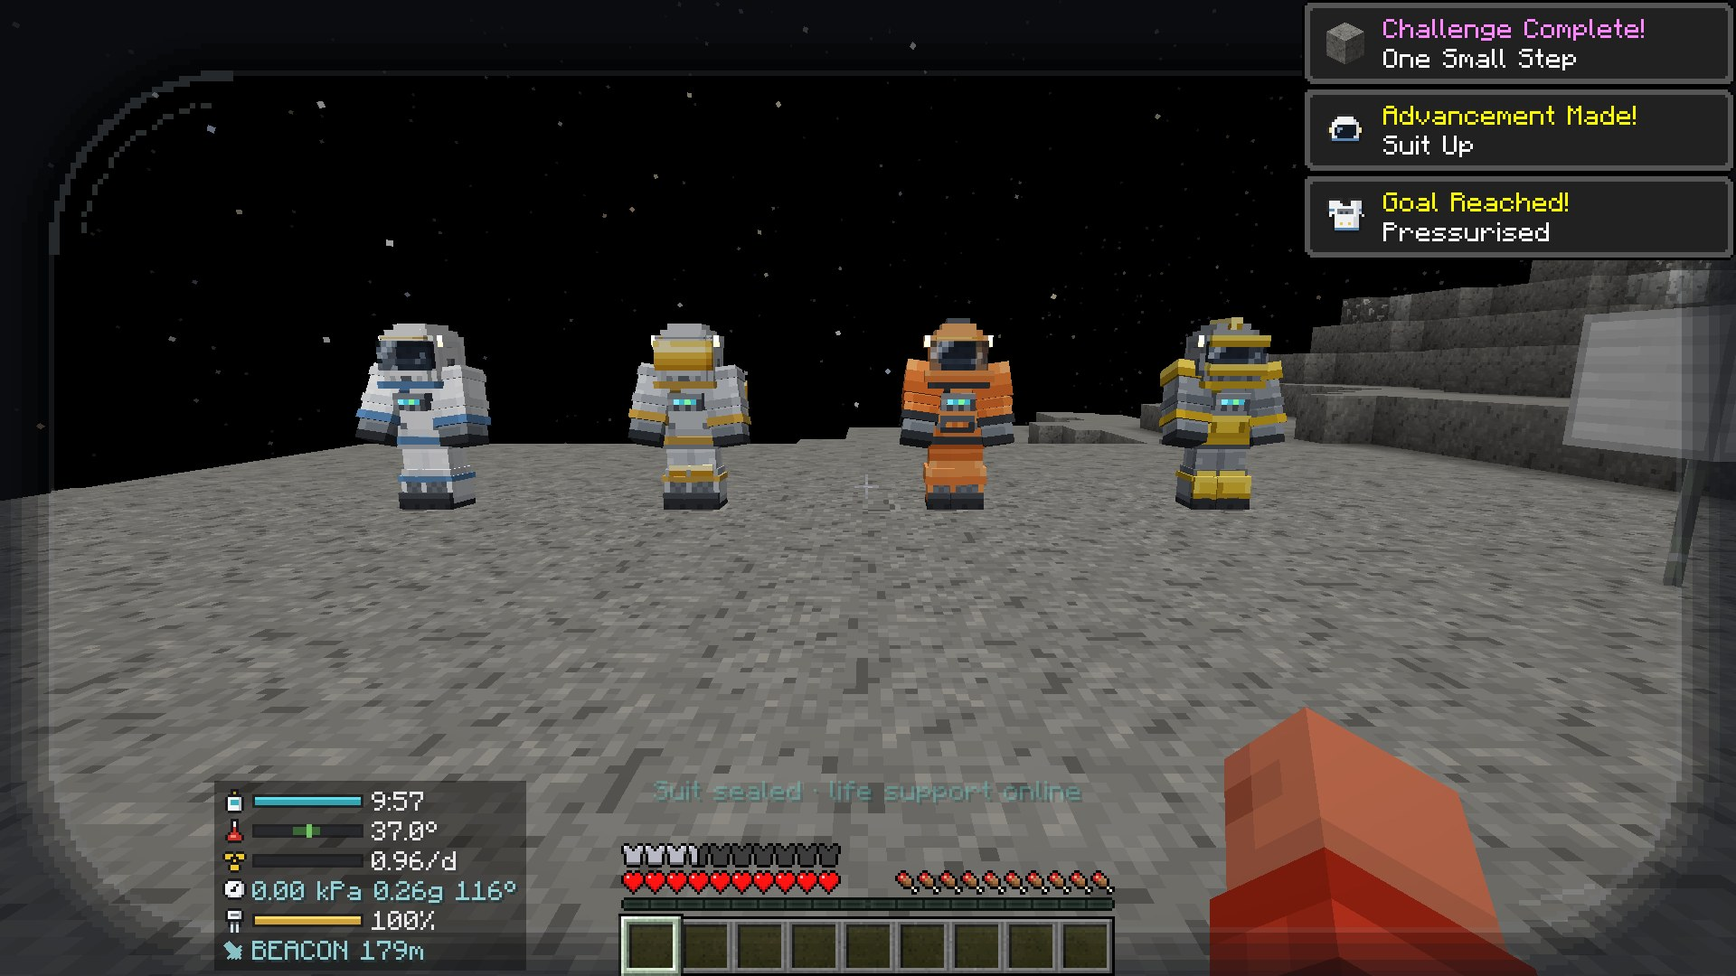
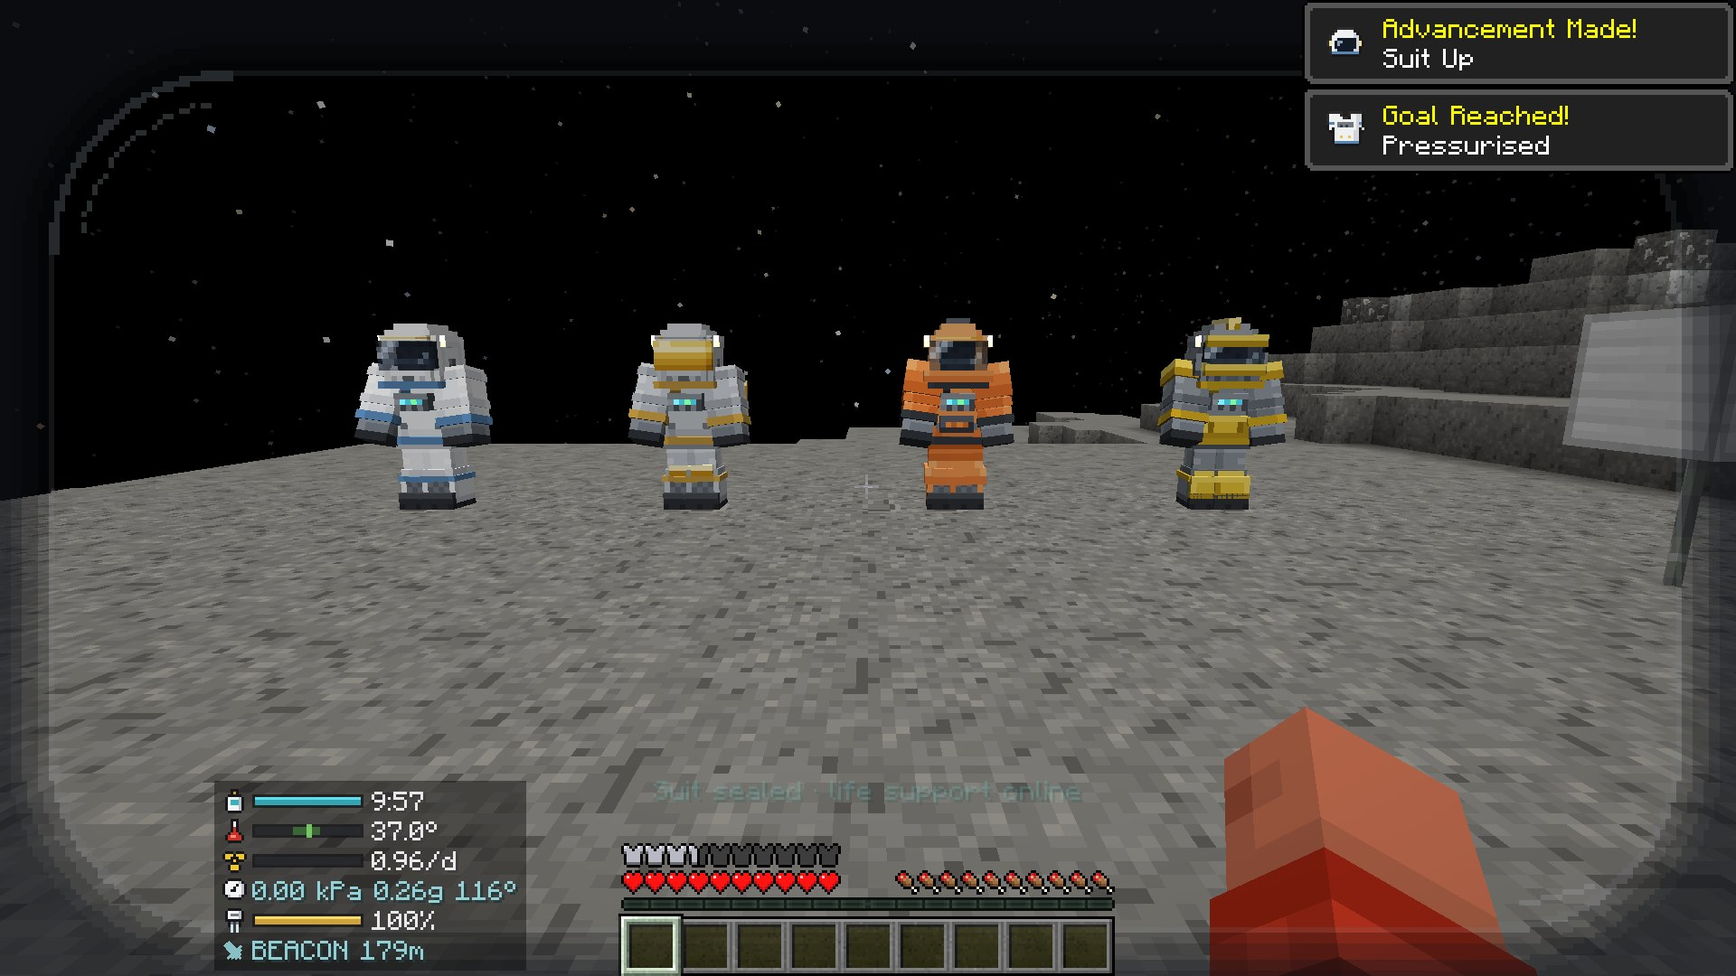
Suit HUD: yellow turn-back warning, clearer text; no toasts in suit showcases
The turn-back warning is drawn in caution yellow (#FFD24A); red stays for
critical warnings such as not having enough oxygen to get back. The English
text now reads TURN BACK: O2 RUNNING LOW FOR THE WAY HOME. All suit and
blueprint showcase shots clear the toast stack before shooting so
advancement toasts no longer cover the top right. Re-shot eva_moon_19/19b.

diff --git a/src/testmod/java/com/pizzaparker07/spacebreaker/testmod/showcase/SuitEvaScenario.java b/src/testmod/java/com/pizzaparker07/spacebreaker/testmod/showcase/SuitEvaScenario.java
@@ -199,33 +199,33 @@ final class SuitEvaScenario implements ShowcaseScenario {
         CameraType fp = CameraType.FIRST_PERSON;
         CameraType back = CameraType.THIRD_PERSON_BACK;
         CameraType front = CameraType.THIRD_PERSON_FRONT;
-        s.add(new Shot(prefix + "_01_tiers_day", 0, 0.0, g + 2.0, 7.0, 180F, 9F, true, fp, 200, at(false, null), null));
-        s.add(new Shot(prefix + "_02_close_mk1_thermal", 0, -3.0, g + 1.75, 3.0, 180F, 5F, true, fp, 40, at(false, null), null));
-        s.add(new Shot(prefix + "_03_close_heated_radiation", 0, 3.0, g + 1.75, 3.0, 180F, 5F, true, fp, 40, at(false, null), null));
-        s.add(new Shot(prefix + "_04_tiers_back", 0, 0.0, g + 2.0, -5.5, 0F, 9F, true, fp, 40, at(false, null), null));
-        s.add(new Shot(prefix + "_05_tiers_night", 0, 0.0, g + 2.0, 7.0, 180F, 9F, true, fp, 60, at(true, null), null));
-        s.add(new Shot(prefix + "_06_lamps_pool", 0, 0.5, g + 1.62, 9.5, 180F, 35F, true, fp, 60, at(true, SuitEvaScenario::astronaut), null));
-        s.add(new Shot(prefix + "_07_lamps_front", 0, 0.5, g + 1.62, 4.5, 0F, 5F, true, front, 40, at(true, SuitEvaScenario::astronaut), null));
-        s.add(new Shot(prefix + "_08_tether", 0, -2.5, g + 1.62, 3.5, 0F, 8F, true, front, 60, at(false, this::tethered), null));
-        s.add(new Shot(prefix + "_09_mmu", 0, -1.5, g + 4.0, 8.0, 150F, 10F, true, back, 40, at(false, SuitEvaScenario::thrusting), null));
-        s.add(new Shot(prefix + "_10_hud", 0, 1.5, g + 1.62, 9.5, 220F, 12F, false, fp, 40, at(false, this::tethered), null));
+        s.add(new Shot(prefix + "_01_tiers_day", 0, 0.0, g + 2.0, 7.0, 180F, 9F, true, fp, 200, at(false, null), SuitShots.CLEAR_TOASTS));
+        s.add(new Shot(prefix + "_02_close_mk1_thermal", 0, -3.0, g + 1.75, 3.0, 180F, 5F, true, fp, 40, at(false, null), SuitShots.CLEAR_TOASTS));
+        s.add(new Shot(prefix + "_03_close_heated_radiation", 0, 3.0, g + 1.75, 3.0, 180F, 5F, true, fp, 40, at(false, null), SuitShots.CLEAR_TOASTS));
+        s.add(new Shot(prefix + "_04_tiers_back", 0, 0.0, g + 2.0, -5.5, 0F, 9F, true, fp, 40, at(false, null), SuitShots.CLEAR_TOASTS));
+        s.add(new Shot(prefix + "_05_tiers_night", 0, 0.0, g + 2.0, 7.0, 180F, 9F, true, fp, 60, at(true, null), SuitShots.CLEAR_TOASTS));
+        s.add(new Shot(prefix + "_06_lamps_pool", 0, 0.5, g + 1.62, 9.5, 180F, 35F, true, fp, 60, at(true, SuitEvaScenario::astronaut), SuitShots.CLEAR_TOASTS));
+        s.add(new Shot(prefix + "_07_lamps_front", 0, 0.5, g + 1.62, 4.5, 0F, 5F, true, front, 40, at(true, SuitEvaScenario::astronaut), SuitShots.CLEAR_TOASTS));
+        s.add(new Shot(prefix + "_08_tether", 0, -2.5, g + 1.62, 3.5, 0F, 8F, true, front, 60, at(false, this::tethered), SuitShots.CLEAR_TOASTS));
+        s.add(new Shot(prefix + "_09_mmu", 0, -1.5, g + 4.0, 8.0, 150F, 10F, true, back, 40, at(false, SuitEvaScenario::thrusting), SuitShots.CLEAR_TOASTS));
+        s.add(new Shot(prefix + "_10_hud", 0, 1.5, g + 1.62, 9.5, 220F, 12F, false, fp, 40, at(false, this::tethered), SuitShots.CLEAR_TOASTS));
         // lamp glow cones from the side (they point the way the helmets face, +z), close to the Mk1 stand
-        s.add(new Shot(prefix + "_11_lamp_cones", 0, -6.8, g + 1.85, 1.6, -100F, 6F, true, fp, 60, at(true, null), null));
+        s.add(new Shot(prefix + "_11_lamp_cones", 0, -6.8, g + 1.85, 1.6, -100F, 6F, true, fp, 60, at(true, null), SuitShots.CLEAR_TOASTS));
         // first person in the cold beyond the suit's rating (Titan's dense air with a Mk1 suit): rime on the visor
-        s.add(new Shot(prefix + "_12_visor_frost", 0, 0.5, g + 1.62, 8.0, 180F, 8F, false, fp, 260, at(false, SuitEvaScenario::astronaut), null));
+        s.add(new Shot(prefix + "_12_visor_frost", 0, 0.5, g + 1.62, 8.0, 180F, 8F, false, fp, 260, at(false, SuitEvaScenario::astronaut), SuitShots.CLEAR_TOASTS));
         // the same view as shot 06 with the lamps on long beam: a narrow pool far ahead
         s.add(new Shot(prefix + "_13_long_beam", 0, 0.5, g + 1.62, 9.5, 180F, 12F, true, fp, 60, at(true, p -> {
             astronaut(p);
             p.getItemBySlot(EquipmentSlot.HEAD).set(SuitModule.LONG_BEAM.get(), true);
-        }), null));
-        s.add(new Shot(prefix + "_14_wide_beam", 0, 0.5, g + 1.62, 9.5, 180F, 12F, true, fp, 60, at(true, SuitEvaScenario::astronaut), null));
-        s.add(new Shot(prefix + "_15_suit_station", 0, -6.0, g + 1.9, 7.0, 160F, 22F, true, fp, 40, at(false, null), null));
+        }), SuitShots.CLEAR_TOASTS));
+        s.add(new Shot(prefix + "_14_wide_beam", 0, 0.5, g + 1.62, 9.5, 180F, 12F, true, fp, 60, at(true, SuitEvaScenario::astronaut), SuitShots.CLEAR_TOASTS));
+        s.add(new Shot(prefix + "_15_suit_station", 0, -6.0, g + 1.9, 7.0, 160F, 22F, true, fp, 40, at(false, null), SuitShots.CLEAR_TOASTS));
         s.add(new Shot(prefix + "_16_sensor", 0, 0.5, g + 1.62, 8.5, 180F, 10F, false, fp, 60, at(false, p -> {
             astronaut(p);
             p.setItemSlot(EquipmentSlot.MAINHAND, new ItemStack(SuitModule.ENVIRONMENT_SENSOR.get()));
             net.neoforged.neoforge.network.PacketDistributor.sendToPlayer(p,
                     com.pizzaparker07.spacebreaker.content.suit.EnvironmentSensorItem.read(p.serverLevel(), p.blockPosition()));
-        }), null));
+        }), SuitShots.CLEAR_TOASTS));
         // the prospecting kit in the hotbar, the charged drill in hand
         s.add(new Shot(prefix + "_17_tools", 0, 0.5, g + 1.62, 8.5, 180F, 25F, false, fp, 60, at(false, p -> {
             astronaut(p);
@@ -238,7 +238,7 @@ final class SuitEvaScenario implements ShowcaseScenario {
                 p.getInventory().setItem(slot++, new ItemStack(tool.get()));
             }
             p.getInventory().selected = 0;
-        }), null));
+        }), SuitShots.CLEAR_TOASTS));
         // the wide-bore drill has dug a 3 x 3 pit (and one more square beside it) in front of the player
         s.add(new Shot(prefix + "_18_wide_bore", 0, 0.5, g + 1.62, 9.0, 180F, 40F, false, fp, 60, at(false, p -> {
             astronaut(p);
@@ -252,18 +252,18 @@ final class SuitEvaScenario implements ShowcaseScenario {
                 com.pizzaparker07.spacebreaker.content.suit.ElectricDrillItem.breakAround(p, centre,
                         net.minecraft.world.level.block.Blocks.STONE.defaultBlockState(), net.minecraft.core.Direction.UP);
             }
-        }), null));
+        }), SuitShots.CLEAR_TOASTS));
         // way home: the player's own landing beacon a long walk away (behind and to the right); then low on oxygen
         s.add(new Shot(prefix + "_19_way_home", 0, 0.5, g + 1.62, 8.5, 180F, 10F, false, fp, 60,
-                at(false, p -> beaconBehind(p, g, 0)), null));
+                at(false, p -> beaconBehind(p, g, 0)), SuitShots.CLEAR_TOASTS));
         s.add(new Shot(prefix + "_19b_turn_back", 0, 0.5, g + 1.62, 8.5, 180F, 10F, false, fp, 60,
-                at(false, p -> beaconBehind(p, g, 1)), null));
+                at(false, p -> beaconBehind(p, g, 1)), SuitShots.CLEAR_TOASTS));
         if (comet) {
             s.add(new Shot(prefix + "_20_tethered_eva", 0, -2.5, g + 1.62, 3.5, 0F, 8F, true, CameraType.THIRD_PERSON_FRONT, 80,
-                    at(false, this::tethered), null));
-            s.add(new Shot(prefix + "_21_micro_g_hud", 0, 0.5, g + 1.62, 8.5, 180F, 12F, false, fp, 60, at(false, SuitEvaScenario::freshArrival), null));
-            s.add(new Shot(prefix + "_22_heated_night_hud", 0, 0.5, g + 1.62, 8.5, 180F, 12F, false, fp, 260, at(true, SuitEvaScenario::heated), null));
-            s.add(new Shot(prefix + "_23_mk1_night_frost", 0, 0.5, g + 1.62, 8.5, 180F, 12F, false, fp, 260, at(true, SuitEvaScenario::astronaut), null));
+                    at(false, this::tethered), SuitShots.CLEAR_TOASTS));
+            s.add(new Shot(prefix + "_21_micro_g_hud", 0, 0.5, g + 1.62, 8.5, 180F, 12F, false, fp, 60, at(false, SuitEvaScenario::freshArrival), SuitShots.CLEAR_TOASTS));
+            s.add(new Shot(prefix + "_22_heated_night_hud", 0, 0.5, g + 1.62, 8.5, 180F, 12F, false, fp, 260, at(true, SuitEvaScenario::heated), SuitShots.CLEAR_TOASTS));
+            s.add(new Shot(prefix + "_23_mk1_night_frost", 0, 0.5, g + 1.62, 8.5, 180F, 12F, false, fp, 260, at(true, SuitEvaScenario::astronaut), SuitShots.CLEAR_TOASTS));
         }
         return s;
     }

diff --git a/src/testmod/java/com/pizzaparker07/spacebreaker/testmod/showcase/SuitScenario.java b/src/testmod/java/com/pizzaparker07/spacebreaker/testmod/showcase/SuitScenario.java
@@ -147,23 +147,23 @@ final class SuitScenario implements ShowcaseScenario {
     public List<Shot> shots() {
         List<Shot> s = new ArrayList<>();
         CameraType fp = CameraType.FIRST_PERSON;
-        s.add(new Shot("suit_01_lineup", 5000, 0.5, G + 2.0, 7.0, 180F, 8F, true, fp, 140, null, null));
-        s.add(new Shot("suit_02_front_close", 5000, -4.5, G + 1.5, 2.6, 180F, 4F, true, fp, 40, null, null));
-        s.add(new Shot("suit_03_helmet_macro", 5000, -4.4, G + 1.75, 1.75, 175F, 8F, true, fp, 40, null, null));
-        s.add(new Shot("suit_04_three_quarter", 5000, -1.4, G + 1.5, 2.9, 190F, 6F, true, fp, 40, null, null));
-        s.add(new Shot("suit_05_back_plss", 5000, 3.0, G + 1.6, 2.7, 180F, 8F, true, fp, 40, null, null));
-        s.add(new Shot("suit_06_gold_visor_mmu", 5000, 5.0, G + 1.6, 2.6, 170F, 6F, true, fp, 40, null, null));
-        s.add(new Shot("suit_07_night_lamps", 17800, 0.5, G + 1.8, 5.0, 180F, 6F, true, fp, 80, null, null));
+        s.add(new Shot("suit_01_lineup", 5000, 0.5, G + 2.0, 7.0, 180F, 8F, true, fp, 140, null, SuitShots.CLEAR_TOASTS));
+        s.add(new Shot("suit_02_front_close", 5000, -4.5, G + 1.5, 2.6, 180F, 4F, true, fp, 40, null, SuitShots.CLEAR_TOASTS));
+        s.add(new Shot("suit_03_helmet_macro", 5000, -4.4, G + 1.75, 1.75, 175F, 8F, true, fp, 40, null, SuitShots.CLEAR_TOASTS));
+        s.add(new Shot("suit_04_three_quarter", 5000, -1.4, G + 1.5, 2.9, 190F, 6F, true, fp, 40, null, SuitShots.CLEAR_TOASTS));
+        s.add(new Shot("suit_05_back_plss", 5000, 3.0, G + 1.6, 2.7, 180F, 8F, true, fp, 40, null, SuitShots.CLEAR_TOASTS));
+        s.add(new Shot("suit_06_gold_visor_mmu", 5000, 5.0, G + 1.6, 2.6, 170F, 6F, true, fp, 40, null, SuitShots.CLEAR_TOASTS));
+        s.add(new Shot("suit_07_night_lamps", 17800, 0.5, G + 1.8, 5.0, 180F, 6F, true, fp, 80, null, SuitShots.CLEAR_TOASTS));
         s.add(new Shot("suit_08_player", 5200, 0.5, G + 1.62, 6.0, 0F, 0F, true, CameraType.THIRD_PERSON_FRONT, 40,
-                SuitScenario::suitUp, null));
+                SuitScenario::suitUp, SuitShots.CLEAR_TOASTS));
         s.add(new Shot("suit_09_player_back", 5200, 0.5, G + 1.62, 6.0, 0F, 0F, true, CameraType.THIRD_PERSON_BACK, 40,
-                SuitScenario::suitUp, null));
-        s.add(new Shot("suit_11_habitat", 6000, 11.0, G + 2.6, 15.5, 175F, 14F, true, fp, 80, null, null));
-        s.add(new Shot("suit_12_machines_close", 6000, 9.2, G + 1.8, 14.6, 170F, 30F, true, fp, 40, null, null));
-        s.add(new Shot("suit_13_airlock_open", 6000, 16.2, G + 2.0, 8.5, 90F, 10F, true, fp, 60, null, null));
+                SuitScenario::suitUp, SuitShots.CLEAR_TOASTS));
+        s.add(new Shot("suit_11_habitat", 6000, 11.0, G + 2.6, 15.5, 175F, 14F, true, fp, 80, null, SuitShots.CLEAR_TOASTS));
+        s.add(new Shot("suit_12_machines_close", 6000, 9.2, G + 1.8, 14.6, 170F, 30F, true, fp, 40, null, SuitShots.CLEAR_TOASTS));
+        s.add(new Shot("suit_13_airlock_open", 6000, 16.2, G + 2.0, 8.5, 90F, 10F, true, fp, 60, null, SuitShots.CLEAR_TOASTS));
         s.add(new Shot("suit_14_inventory", 6000, 0.5, G + 1.62, 7.0, 180F, 5F, false, fp, 30, SuitScenario::fillHotbar,
-                ShowcaseDriver::openCreativeTab));
-        s.add(new Shot("suit_10_hud", 6000, 0.5, G + 1.62, 7.0, 180F, 5F, false, fp, 60, SuitScenario::suitUp, null));
+                SuitShots.clearToastsThen(ShowcaseDriver::openCreativeTab)));
+        s.add(new Shot("suit_10_hud", 6000, 0.5, G + 1.62, 7.0, 180F, 5F, false, fp, 60, SuitScenario::suitUp, SuitShots.CLEAR_TOASTS));
         return s;
     }
 

diff --git a/src/testmod/java/com/pizzaparker07/spacebreaker/testmod/showcase/BlueprintScenario.java b/src/testmod/java/com/pizzaparker07/spacebreaker/testmod/showcase/BlueprintScenario.java
@@ -80,13 +80,13 @@ final class BlueprintScenario implements ShowcaseScenario {
     public List<Shot> shots() {
         List<Shot> s = new ArrayList<>();
         CameraType fp = CameraType.FIRST_PERSON;
-        s.add(new Shot("blueprint_01_launch_site", 6000, 0.5, G + 4.5, 9.5, 180F, 22F, false, fp, 160, projecting("launch_site", LAUNCH, -1), null));
-        s.add(new Shot("blueprint_02_close", 6000, -3.5, G + 3.0, 5.5, 215F, 18F, false, fp, 60, projecting("launch_site", LAUNCH, -1), null));
-        s.add(new Shot("blueprint_03_layer_mode", 6000, 0.5, G + 4.5, 9.5, 180F, 22F, false, fp, 60, projecting("launch_site", LAUNCH, 4), null));
-        s.add(new Shot("blueprint_04_habitat", 6000, 10.5, G + 3.5, 7.5, 180F, 20F, false, fp, 60, projecting("pressurised_habitat", HABITAT, -1), null));
-        s.add(new Shot("blueprint_05_hidden_gui", 6000, -3.5, G + 3.0, 5.5, 215F, 18F, true, fp, 40, projecting("launch_site", LAUNCH, -1), null));
+        s.add(new Shot("blueprint_01_launch_site", 6000, 0.5, G + 4.5, 9.5, 180F, 22F, false, fp, 160, projecting("launch_site", LAUNCH, -1), SuitShots.CLEAR_TOASTS));
+        s.add(new Shot("blueprint_02_close", 6000, -3.5, G + 3.0, 5.5, 215F, 18F, false, fp, 60, projecting("launch_site", LAUNCH, -1), SuitShots.CLEAR_TOASTS));
+        s.add(new Shot("blueprint_03_layer_mode", 6000, 0.5, G + 4.5, 9.5, 180F, 22F, false, fp, 60, projecting("launch_site", LAUNCH, 4), SuitShots.CLEAR_TOASTS));
+        s.add(new Shot("blueprint_04_habitat", 6000, 10.5, G + 3.5, 7.5, 180F, 20F, false, fp, 60, projecting("pressurised_habitat", HABITAT, -1), SuitShots.CLEAR_TOASTS));
+        s.add(new Shot("blueprint_05_hidden_gui", 6000, -3.5, G + 3.0, 5.5, 215F, 18F, true, fp, 40, projecting("launch_site", LAUNCH, -1), SuitShots.CLEAR_TOASTS));
         s.add(new Shot("blueprint_06_select", 6000, 0.5, G + 4.5, 9.5, 180F, 22F, false, fp, 30, projecting("launch_site", LAUNCH, -1),
-                () -> Minecraft.getInstance().setScreen(new BlueprintScreen())));
+                SuitShots.clearToastsThen(() -> Minecraft.getInstance().setScreen(new BlueprintScreen()))));
         return s;
     }
 }

diff --git a/src/testmod/java/com/pizzaparker07/spacebreaker/testmod/showcase/SuitTiersScenario.java b/src/testmod/java/com/pizzaparker07/spacebreaker/testmod/showcase/SuitTiersScenario.java
@@ -84,13 +84,13 @@ final class SuitTiersScenario implements ShowcaseScenario {
     public List<Shot> shots() {
         List<Shot> s = new ArrayList<>();
         CameraType fp = CameraType.FIRST_PERSON;
-        s.add(new Shot("tiers_01_front", 5000, 0.0, G + 2.2, 6.5, 180F, 10F, true, fp, 140, null, null));
-        s.add(new Shot("tiers_02_back", 5000, 0.0, G + 2.2, -10.0, 0F, 10F, true, fp, 60, null, null));
-        s.add(new Shot("tiers_03_thermal_heated", 5000, 0.0, G + 1.7, 3.6, 180F, 6F, true, fp, 40, null, null));
-        s.add(new Shot("tiers_04_radiation_close", 5000, 3.0, G + 1.7, 2.9, 180F, 6F, true, fp, 40, null, null));
-        s.add(new Shot("tiers_05_three_quarter", 5000, 5.5, G + 2.0, 4.5, 140F, 12F, true, fp, 40, null, null));
-        s.add(new Shot("tiers_06_dyed", 5000, -6.0, G + 1.8, 8.5, 185F, 8F, true, fp, 40, null, null));
-        s.add(new Shot("tiers_07_inventory", 5000, 0.0, G + 1.62, 7.0, 180F, 5F, false, fp, 30, null, ShowcaseDriver::openCreativeTab));
+        s.add(new Shot("tiers_01_front", 5000, 0.0, G + 2.2, 6.5, 180F, 10F, true, fp, 140, null, SuitShots.CLEAR_TOASTS));
+        s.add(new Shot("tiers_02_back", 5000, 0.0, G + 2.2, -10.0, 0F, 10F, true, fp, 60, null, SuitShots.CLEAR_TOASTS));
+        s.add(new Shot("tiers_03_thermal_heated", 5000, 0.0, G + 1.7, 3.6, 180F, 6F, true, fp, 40, null, SuitShots.CLEAR_TOASTS));
+        s.add(new Shot("tiers_04_radiation_close", 5000, 3.0, G + 1.7, 2.9, 180F, 6F, true, fp, 40, null, SuitShots.CLEAR_TOASTS));
+        s.add(new Shot("tiers_05_three_quarter", 5000, 5.5, G + 2.0, 4.5, 140F, 12F, true, fp, 40, null, SuitShots.CLEAR_TOASTS));
+        s.add(new Shot("tiers_06_dyed", 5000, -6.0, G + 1.8, 8.5, 185F, 8F, true, fp, 40, null, SuitShots.CLEAR_TOASTS));
+        s.add(new Shot("tiers_07_inventory", 5000, 0.0, G + 1.62, 7.0, 180F, 5F, false, fp, 30, null, SuitShots.clearToastsThen(ShowcaseDriver::openCreativeTab)));
         return s;
     }
 }

diff --git a/src/main/java/com/pizzaparker07/spacebreaker/client/hud/HelmetHud.java b/src/main/java/com/pizzaparker07/spacebreaker/client/hud/HelmetHud.java
@@ -39,6 +39,8 @@ public final class HelmetHud {
     private static final int TEXT = 0x9FE3EA;
     private static final int WARN = 0xFFB040;
     private static final int ALARM = 0xFF5A4A;
+    /** Caution yellow: the warning that still leaves time to act (turn back now). */
+    private static final int CAUTION = 0xFFD24A;
 
     private HelmetHud() {
     }
@@ -267,6 +269,7 @@ public final class HelmetHud {
 
         // warnings: centred above the hotbar, like vanilla's action bar
         Component warning = null;
+        int warningColor = ALARM;
         if (!breathable && !sealed) {
             warning = Component.translatable("hud.spacebreaker.warn.unsealed");
         } else if (!breathable && s.oxygen() == 0) {
@@ -275,6 +278,7 @@ public final class HelmetHud {
             warning = Component.translatable("hud.spacebreaker.warn.cant_make_it");
         } else if (!breathable && navStatus == com.pizzaparker07.spacebreaker.content.suit.Navigation.Status.TURN_BACK) {
             warning = Component.translatable("hud.spacebreaker.warn.turn_back");
+            warningColor = CAUTION;
         } else if (!breathable && o2 < 0.15F) {
             warning = Component.translatable("hud.spacebreaker.warn.low_oxygen");
         } else if (beyond) {
@@ -297,7 +301,7 @@ public final class HelmetHud {
             int ww = font.width(warning);
             int wx = (g.guiWidth() - ww) / 2;
             int wy = g.guiHeight() - 59 - (player.isCreative() ? 0 : 10);
-            g.drawString(font, warning, wx, wy, argb(ALARM, alpha), true);
+            g.drawString(font, warning, wx, wy, argb(warningColor, alpha), true);
         }
     }
 

diff --git a/src/testmod/java/com/pizzaparker07/spacebreaker/testmod/showcase/SuitMoonScenario.java b/src/testmod/java/com/pizzaparker07/spacebreaker/testmod/showcase/SuitMoonScenario.java
@@ -109,12 +109,12 @@ final class SuitMoonScenario implements ShowcaseScenario {
         double gy = ground(0.5, 0.5);
         List<Shot> s = new ArrayList<>();
         CameraType fp = CameraType.FIRST_PERSON;
-        s.add(new Shot("suit_moon_01_day", 0, 0.0, gy + 1.9, 6.0, 180F, 8F, true, fp, 200, at(0.2, null), null));
-        s.add(new Shot("suit_moon_02_night_lamps", 0, 0.0, gy + 1.9, 5.0, 180F, 8F, true, fp, 80, at(0.75, null), null));
-        s.add(new Shot("suit_moon_03_hud_vacuum", 0, 0.5, gy + 1.62, 6.5, 180F, 6F, false, fp, 60, at(0.2, SuitMoonScenario::suited), null));
-        s.add(new Shot("suit_moon_04_hud_warning", 0, 0.5, gy + 1.62, 6.5, 180F, 6F, false, fp, 60, at(0.2, SuitMoonScenario::incomplete), null));
+        s.add(new Shot("suit_moon_01_day", 0, 0.0, gy + 1.9, 6.0, 180F, 8F, true, fp, 200, at(0.2, null), SuitShots.CLEAR_TOASTS));
+        s.add(new Shot("suit_moon_02_night_lamps", 0, 0.0, gy + 1.9, 5.0, 180F, 8F, true, fp, 80, at(0.75, null), SuitShots.CLEAR_TOASTS));
+        s.add(new Shot("suit_moon_03_hud_vacuum", 0, 0.5, gy + 1.62, 6.5, 180F, 6F, false, fp, 60, at(0.2, SuitMoonScenario::suited), SuitShots.CLEAR_TOASTS));
+        s.add(new Shot("suit_moon_04_hud_warning", 0, 0.5, gy + 1.62, 6.5, 180F, 6F, false, fp, 60, at(0.2, SuitMoonScenario::incomplete), SuitShots.CLEAR_TOASTS));
         s.add(new Shot("suit_moon_05_player", 0, 0.5, gy + 1.62, 6.5, 180F, 0F, true, CameraType.THIRD_PERSON_FRONT, 60,
-                at(0.2, SuitMoonScenario::suited), null));
+                at(0.2, SuitMoonScenario::suited), SuitShots.CLEAR_TOASTS));
         return s;
     }
 }

diff --git a/src/testmod/java/com/pizzaparker07/spacebreaker/testmod/showcase/SuitCapsuleScenario.java b/src/testmod/java/com/pizzaparker07/spacebreaker/testmod/showcase/SuitCapsuleScenario.java
@@ -49,10 +49,10 @@ final class SuitCapsuleScenario implements ShowcaseScenario {
         return List.of(
                 // the first boarding shows the rocket's chase camera; the cockpit view follows on the next shots
                 new Shot("capsule_00_boarding", 6000, 0.5, RocketEntity.ORBIT_Y + 1, 0.5, 30F, 20F, true, fp, 120,
-                        p -> seated(p, false), null),
+                        p -> seated(p, false), SuitShots.CLEAR_TOASTS),
                 new Shot("capsule_01_helmet_off", 6000, 0.5, RocketEntity.ORBIT_Y + 1, 0.5, 30F, 20F, false, fp, 120,
-                        p -> seated(p, false), null),
+                        p -> seated(p, false), SuitShots.CLEAR_TOASTS),
                 new Shot("capsule_02_hud_pressurised", 6000, 0.5, RocketEntity.ORBIT_Y + 1, 0.5, 30F, 20F, false, fp, 160,
-                        p -> seated(p, true), null));
+                        p -> seated(p, true), SuitShots.CLEAR_TOASTS));
     }
 }

diff --git a/src/main/java/com/pizzaparker07/spacebreaker/content/suit/SuitModule.java b/src/main/java/com/pizzaparker07/spacebreaker/content/suit/SuitModule.java
@@ -349,7 +349,7 @@ public final class SuitModule implements SbModule {
         lang.add("hud.spacebreaker.nav.rocket", "ROCKET", "ROKET");
         lang.add("hud.spacebreaker.nav.beacon", "BEACON", "İŞARET");
         lang.add("hud.spacebreaker.nav.base", "BASE", "ÜS");
-        lang.add("hud.spacebreaker.warn.turn_back", "TURN BACK: O2 FOR THE WAY HOME", "DÖN: DÖNÜŞ İÇİN O2 AZALIYOR");
+        lang.add("hud.spacebreaker.warn.turn_back", "TURN BACK: O2 RUNNING LOW FOR THE WAY HOME", "DÖN: DÖNÜŞ İÇİN O2 AZALIYOR");
         lang.add("hud.spacebreaker.warn.cant_make_it", "NOT ENOUGH O2 TO GET BACK", "GERİ DÖNMEYE O2 YETMİYOR");
         lang.add("sensor.spacebreaker.title", "Environment reading", "Çevre ölçümü");
         lang.add("sensor.spacebreaker.title_at", "Environment reading: %s", "Çevre ölçümü: %s");

diff --git a/src/testmod/java/com/pizzaparker07/spacebreaker/testmod/showcase/SuitShots.java b/src/testmod/java/com/pizzaparker07/spacebreaker/testmod/showcase/SuitShots.java
@@ -1,0 +1,20 @@
+package com.pizzaparker07.spacebreaker.testmod.showcase;
+
+import net.minecraft.client.Minecraft;
+
+/** Shared bits of the suit area's showcase scenarios. */
+final class SuitShots {
+    /** Client setup for every suit shot: no advancement or recipe toasts over the picture. */
+    static final Runnable CLEAR_TOASTS = () -> Minecraft.getInstance().getToasts().clear();
+
+    /** Clears the toasts, then runs the shot's own client setup. */
+    static Runnable clearToastsThen(Runnable setup) {
+        return () -> {
+            CLEAR_TOASTS.run();
+            setup.run();
+        };
+    }
+
+    private SuitShots() {
+    }
+}
